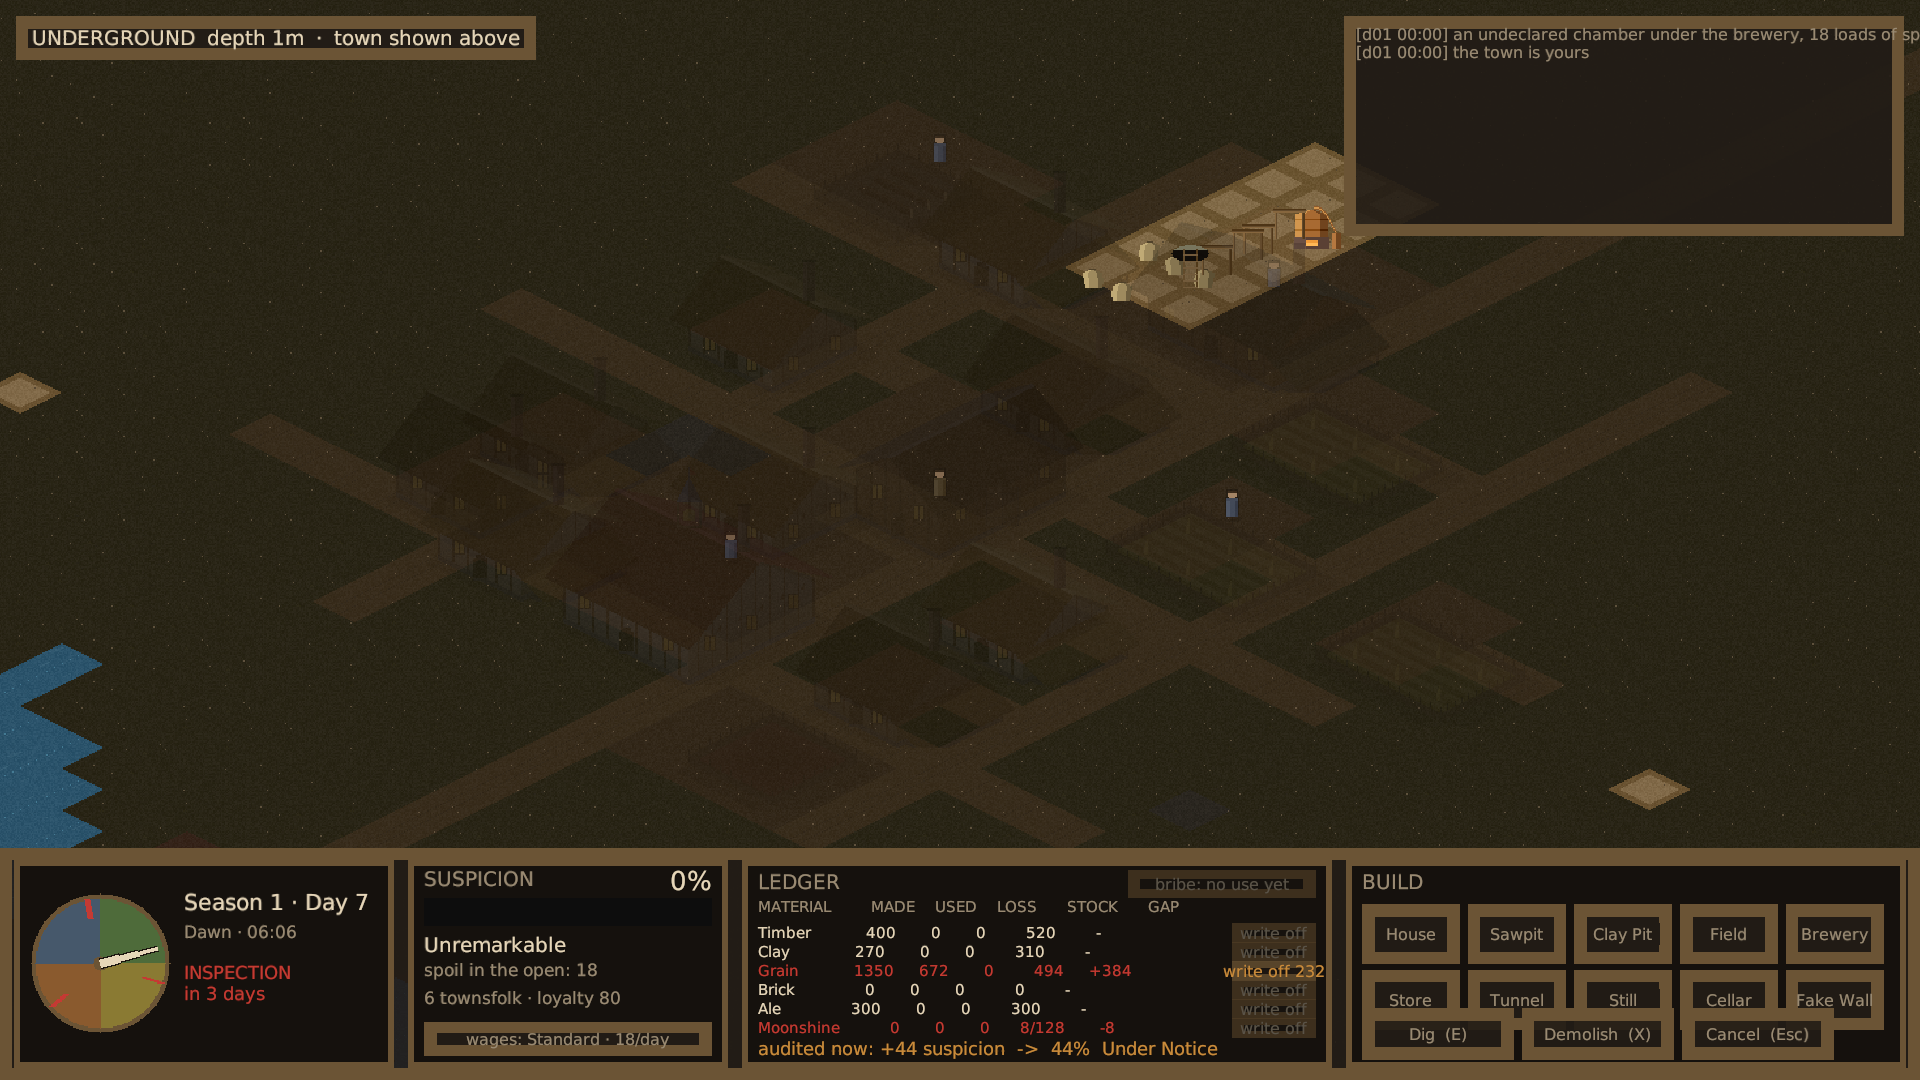
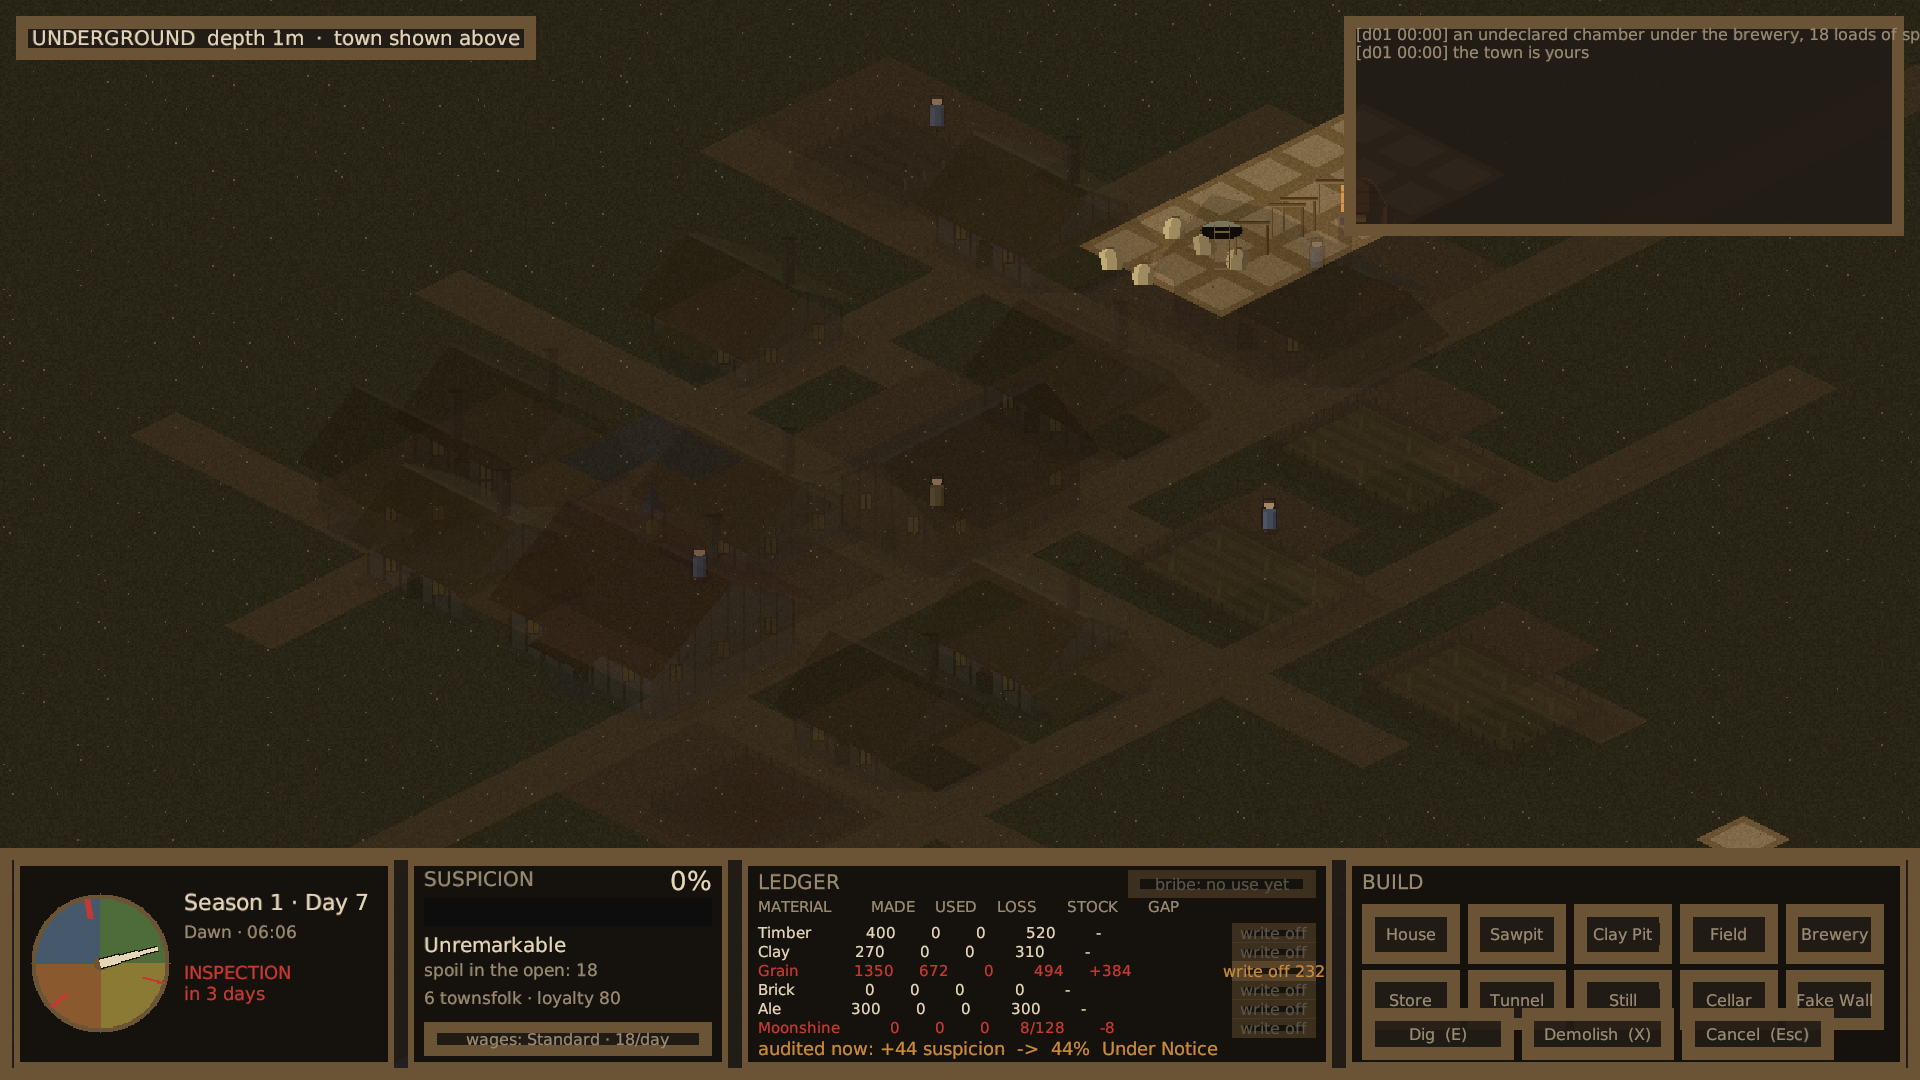
art: porches on the south wall, and a frame that crops
A porch over the door: a small pitched hood on two posts, on the town hall and
two of the four cottage variants. The lean-to changes a building's plan; this
changes its face. Both are needed because a row of identical frontages gives the
place away as readily as a row of identical roofs. It wants to be narrow and
high - a hood the width of the wall hides the door it is meant to shelter along
with the windows either side of it.

Drawn first at small v it came out hanging off the back of the house. The
sprite's v axis runs opposite the world's y, because the projection negates the
sum of the two, so the south wall is the side where v is largest.

Framing now allows a crop. Fitting the whole settlement with room to spare left
it an island in empty country, which is not how the reference is framed - its
town runs off all four edges. That gap cannot be closed by zooming: any
rectangle of cells projects to a fixed two-to-one shape whatever its own
proportions, so a wider frame always has slack at the sides. Properly fixing it
means laying the town out along the screen horizontal, which is the north-west
to south-east diagonal in cell coordinates. Short of that, north and south may
run a little past the viewport, which buys a closer view and costs nothing the
player cannot scroll to.

85 tests pass.

diff --git a/Undertown/Assets/Scripts/Game/Presentation/IsoBuildingArt.cs b/Undertown/Assets/Scripts/Game/Presentation/IsoBuildingArt.cs
@@ -46,6 +46,9 @@ namespace Undertown.Game.Presentation
 
             /// <summary>A single-pitch outshot along the east wall, or none.</summary>
             public bool LeanTo;
+
+            /// <summary>A covered porch on posts over the south doorway, or none.</summary>
+            public bool Porch;
         }
 
         /// <summary>
@@ -75,7 +78,7 @@ namespace Undertown.Game.Presentation
             int peak = across * Iso.HalfHeight / 2 + scheme.Pitch;
 
             // Enough room for the eaves, and for an outshot standing clear of the east wall.
-            int marginX = Mathf.CeilToInt(Overhang * Iso.TileWidth) + (scheme.LeanTo ? 30 : 4);
+            int marginX = Mathf.CeilToInt(Overhang * Iso.TileWidth) + (scheme.LeanTo || scheme.Porch ? 30 : 4);
             int footW = Iso.FootprintWidth(cw, ch) + marginX * 2;
             int footH = Iso.FootprintHeight(cw, ch);
             int total = footH + scheme.WallHeight + peak + marginX + 12;
@@ -111,6 +114,7 @@ namespace Undertown.Game.Presentation
             Brackets(px, w, h, cw, ch, ox, oy, scheme);
             Roof(px, w, h, cw, ch, ox, oy, scheme, ridgeAlongX, peak);
             if (scheme.LeanTo) LeanTo(px, w, h, cw, ch, ox, oy, scheme);
+            if (scheme.Porch) Porch(px, w, h, cw, ch, ox, oy, scheme);
             if (scheme.Chimney) Chimney(px, w, h, cw, ch, ox, oy, scheme, peak);
 
             // Landmarks last, over the roof they stand on.
@@ -336,6 +340,73 @@ namespace Undertown.Game.Presentation
                 var tone = across < 0.12f ? Darken(roof, 20) : across > 0.94f ? Darken(roof, 30) : roof;
                 if (scheme.Thatch && (i + j) % 9 == 0) tone = roofLit;
                 if (!scheme.Thatch && Mathf.RoundToInt(across * 40f) % 5 == 0) tone = Darken(tone, 14);
+                Plot(px, w, h, p.x, p.y + lift, tone);
+            }
+        }
+
+        /// <summary>
+        /// A porch over the south door: a small pitched hood on two posts, standing out from
+        /// the wall the door is in.
+        ///
+        /// Where the outshot changes a building's plan, this changes its face. Both matter
+        /// because the reference has no two buildings alike, and a row of identical frontages
+        /// is as much of a tell as a row of identical roofs.
+        /// </summary>
+        private static void Porch(Color32[] px, int w, int h, int cw, int ch, int ox, int oy,
+            Scheme scheme)
+        {
+            var roof = Darken(scheme.Roof, 12);
+            var roofLit = Lighten(scheme.Roof, 10);
+            var post = scheme.Timber;
+            var postLit = Lighten(scheme.Timber, 28);
+            var floor = Darken(scheme.Plinth, 8);
+
+            // Narrow and high enough to stand over the door rather than across the frontage:
+            // a hood the width of the wall hides the door it is supposed to shelter, along
+            // with the windows either side of it.
+            const float depth = 0.42f;
+            float mid = cw / 2f;
+            float from = Mathf.Max(0.1f, mid - 0.42f);
+            float to = Mathf.Min(cw - 0.1f, mid + 0.42f);
+
+            int head = scheme.WallHeight - 2;
+            int eave = head - 6;
+            int steps = 150;
+
+            // The south wall is the one the door is in, and south is v at its largest: the
+            // sprite's v axis runs opposite the world's y, because the projection negates the
+            // sum of the two. Built at small v the porch comes out on the far side of the
+            // house, hanging off the back wall.
+            for (int j = 0; j <= steps; j++)
+            for (int i = 0; i <= steps; i++)
+            {
+                float u = Mathf.Lerp(from, to, i / (float)steps);
+                float v = ch + (j / (float)steps) * depth;
+                var p = Iso.Project(u, v, ox, oy);
+                Plot(px, w, h, p.x, p.y + 1, floor);
+            }
+
+            for (int end = 0; end < 2; end++)
+            {
+                var p = Iso.Project(end == 0 ? from : to, ch + depth, ox, oy);
+                for (int lift = 0; lift < eave; lift++)
+                {
+                    Plot(px, w, h, p.x, p.y + lift, postLit);
+                    Plot(px, w, h, p.x + 1, p.y + lift, post);
+                }
+            }
+
+            for (int j = 0; j <= steps; j++)
+            for (int i = 0; i <= steps; i++)
+            {
+                float out01 = j / (float)steps;
+                float u = Mathf.Lerp(from - 0.12f, to + 0.12f, i / (float)steps);
+                float v = ch - 0.06f + out01 * (depth + 0.18f);
+                int lift = Mathf.RoundToInt(Mathf.Lerp(head, eave, out01));
+
+                var p = Iso.Project(u, v, ox, oy);
+                var tone = out01 > 0.93f ? Darken(roof, 26) : out01 < 0.1f ? Darken(roof, 12) : roof;
+                if (scheme.Thatch && (i + j) % 11 == 0) tone = roofLit;
                 Plot(px, w, h, p.x, p.y + lift, tone);
             }
         }
@@ -775,11 +846,13 @@ namespace Undertown.Game.Presentation
                         WallHeight = 24 + variant * 2, Pitch = 13 + (variant & 1) * 3,
                         Thatch = true, HalfTimbered = true, Chimney = true,
                         LeanTo = variant == 1 || variant == 2,
+                        Porch = variant == 0 || variant == 3,
                     };
                 }
                 case BuildingKind.TownHall:
                     return new Scheme
                     {
+                        Porch = true,
                         Wall = C(0xA4, 0x98, 0x80), Roof = C(0x82, 0x38, 0x28),
                         Timber = C(0x53, 0x3A, 0x26), Plinth = C(0x6E, 0x6A, 0x62),
                         WallHeight = 34, Pitch = 16, HalfTimbered = true, Chimney = true,

diff --git a/Undertown/Assets/Scripts/Game/Bootstrap/GameBootstrap.cs b/Undertown/Assets/Scripts/Game/Bootstrap/GameBootstrap.cs
@@ -321,7 +321,20 @@ namespace Undertown.Game.Bootstrap
             float aspect = cam.aspect > 0.1f ? cam.aspect : 16f / 9f;
             float sizeForHeight = spanY / (2f * (1f - hudFraction));
             float sizeForWidth = spanX / (2f * aspect);
-            cam.orthographicSize = Mathf.Max(3.5f, Mathf.Max(sizeForHeight, sizeForWidth));
+
+            // Fitting the whole settlement with room to spare leaves it as an island in the
+            // middle of empty country, which is not how the reference is framed - its town runs
+            // off all four edges. Under this projection that gap cannot be closed by zooming
+            // alone: any rectangle of cells projects to a fixed two-to-one shape on screen, so
+            // a frame wider than that always has slack at the sides whatever the town's
+            // proportions. Filling it properly would mean laying the town out along the screen
+            // horizontal, which is the north-west to south-east diagonal in cell coordinates.
+            //
+            // Short of that, the frame is allowed to crop: north and south edges may run a
+            // little past the viewport, which buys a closer view and costs nothing the player
+            // cannot scroll to.
+            const float verticalCrop = 0.88f;
+            cam.orthographicSize = Mathf.Max(3.5f, Mathf.Max(sizeForHeight * verticalCrop, sizeForWidth));
 
             // The HUD covers the bottom band of the viewport, so the visible area's centre sits
             // above the camera's. Putting the town in the middle of what can actually be seen

diff --git a/docs/visual-progress.md b/docs/visual-progress.md
@@ -18,7 +18,9 @@ v017 把视角改对了，但两张图放在一起仍然不像同一款游戏。
 
 栅栏立起来之后暴露了两处必须解决的问题。**建筑占用的格子也被围了**——建筑不改变脚下的地块类型，于是栅栏横穿墙面从屋顶上钻出来。**栅栏太高**——一格在屏幕上只有 32 像素，栅栏做到一半高就会埋掉它后面每一面墙的下半截。现在栅栏压低了，公共建筑也从巷边退开一格，让门脸和栅栏之间留出院子。
 
-建筑另外可选一间偏厦：靠东墙、单坡、立柱支撑。除此之外每栋建筑都是一个盒子，而一排盒子正是让这地方看起来像零件拼装而非建造起来的原因。
+建筑另外可选一间偏厦（靠东墙、单坡、立柱支撑）和一处门廊（南墙门上、小坡屋顶、两根立柱）。除此之外每栋建筑都是一个盒子，而一排盒子正是让这地方看起来像零件拼装而非建造起来的原因。偏厦改的是平面，门廊改的是正脸，两者都需要，因为一排相同的正脸和一排相同的屋顶同样露馅。
+
+门廊第一次画出来跑到了房子背面。原因是 sprite 内部的 `v` 轴与世界的 `y` 轴反向——投影取的是两者之和的负值——所以南墙在 `v` 最大的一侧，不是最小的一侧。
 
 ### 二、河是一块蓝色，镇外是一片空绿
 
@@ -50,10 +52,10 @@ v017 把视角改对了，但两张图放在一起仍然不像同一款游戏。
 
 ### 仍未追平的差距
 
-- **建筑轮廓的多样性**。参照物里几乎没有两栋建筑是同一个平面。当前有偏厦和四种农舍变体，但主体仍是矩形。
+- **建筑轮廓的多样性**。参照物里几乎没有两栋建筑是同一个平面。当前有偏厦、门廊和四种农舍变体，但主体仍是矩形。
 - **生产设施缺少地标**。参照物有风车和水车，高耸且形状独特。当前最高的是镇政厅的钟楼。
 - **地形起伏**。参照物有高差、护坡、石砌水岸。当前地面完全是平的；这需要给地图加高程，是模拟层的改动。
-- **镇子占画面的比例**。参照物的聚落铺满画面，当前四周仍有野地。等距投影下任何矩形区域的屏幕宽高比恒为 2:1，要填满 16:9 的画幅，镇子的布局本身得沿屏幕水平方向（即游戏坐标的西北—东南对角）拉长，而不是像现在这样占一块方形区域。
+- **镇子在画幅里的占比**（部分解决）。等距投影下任何矩形格子区域的屏幕宽高比恒为 2:1，与该区域自身的长宽比无关，所以在 16:9 的画幅里两侧必然留白，拉近镜头也消不掉。真正的解法是让镇子的布局沿屏幕水平方向延伸——在格坐标里就是西北—东南对角——而不是像现在这样占一块方形区域。折中办法是允许取景裁切：南北两边可以略微超出视口，换来更近的视距，代价只是玩家需要滚动才能看到边缘。现在的构图已经接近参照物，但底层的形状约束仍在。
 
 ---
 
